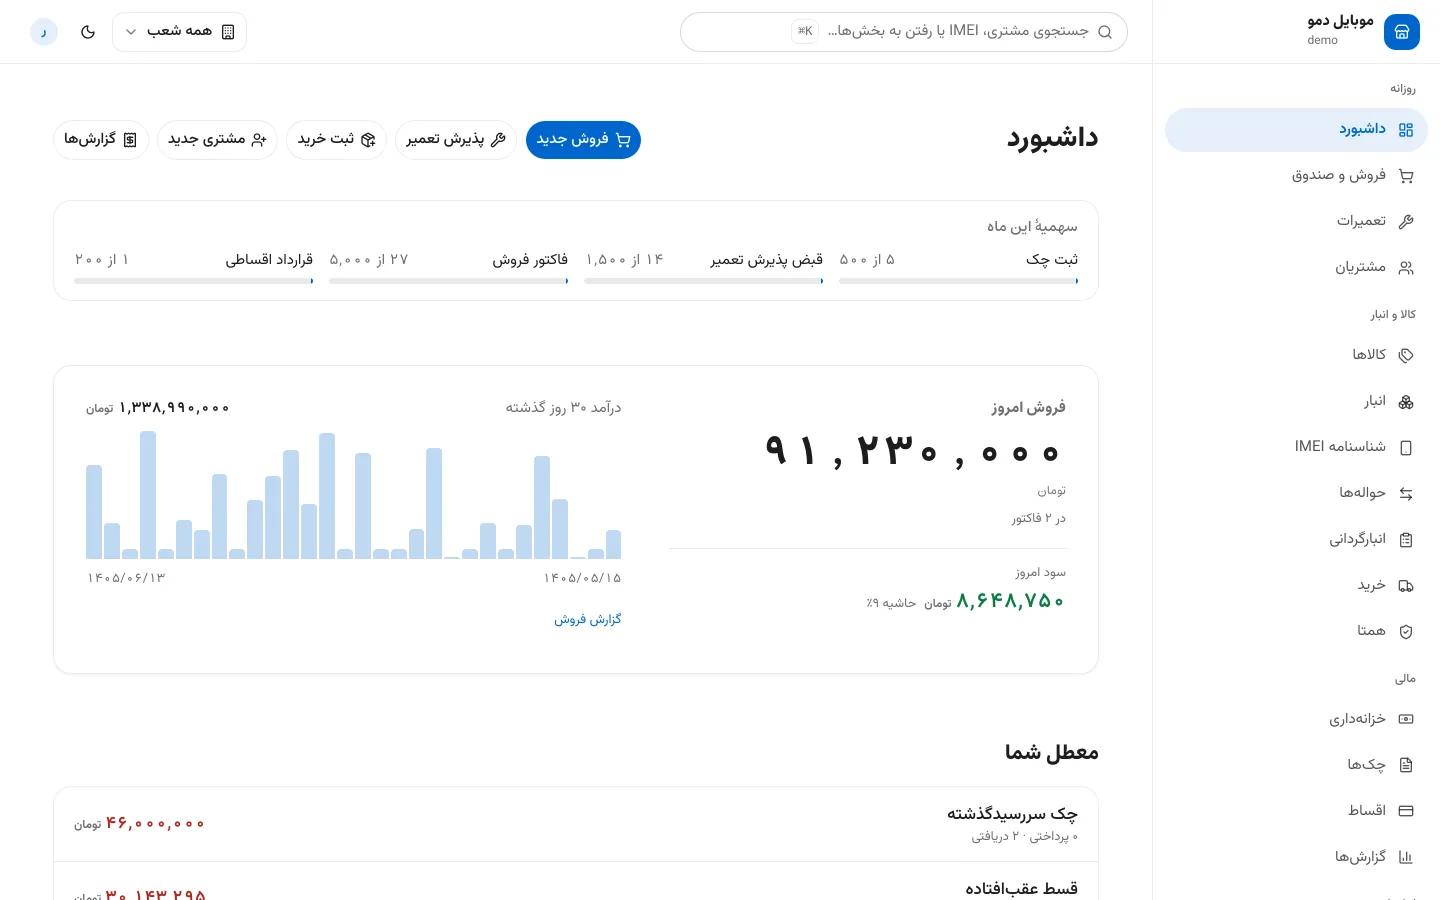
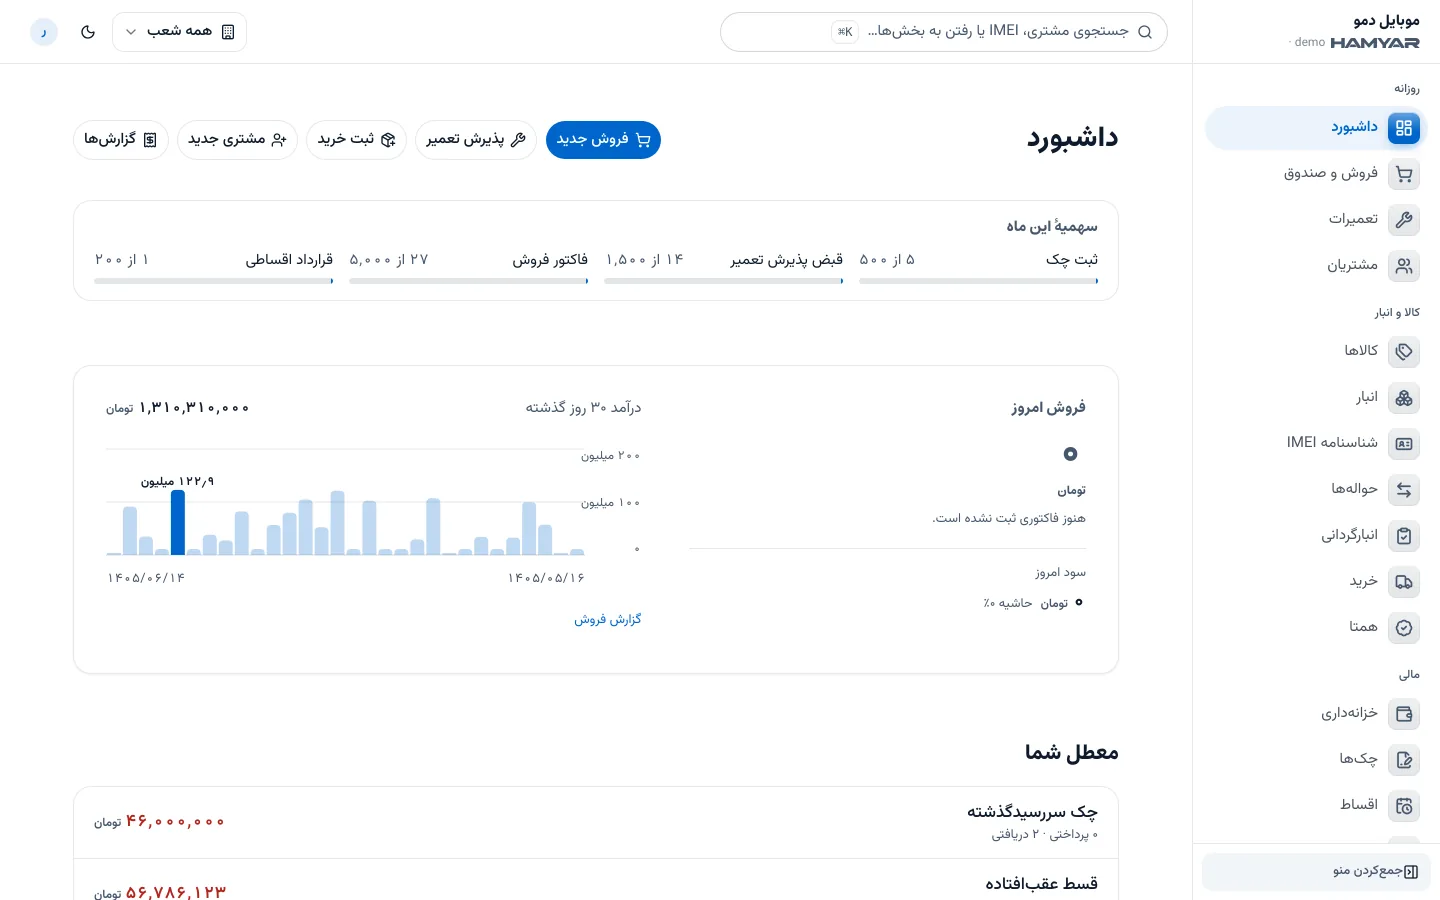
fix(shots): the screenshot pipeline could not sign in, and nothing said so (#162)
Adding the «کد امنیتی» broke `bin/shots` the day it landed. The pipeline drives a real
Chromium at the real sign-in page: it fills the mobile and the password, posts, and the
request now fails validation on a field whose answer is a *picture*. `capture.mjs` sat
waiting to leave `/login` until it timed out. The weekly `shots.yml` run had been
failing the same way, and nobody looked, because a screenshot workflow that fails
quietly looks exactly like a screenshot workflow with nothing to do.

That matters more than a broken script. `LandingShotsTest` enforces the promise that
the captures on the landing are real and current; the pipeline that keeps that promise
had been unable to run since 2026-09-04. The dashboard shot in this commit is the first
one taken since the sidebar got its icon tiles.

The fix is `GET /shots/security-code`, and the shape of it was chosen carefully:

**It returns the caller's OWN session's code and nothing else.** It is not a way in.
The pipeline still posts the real form, through `LoginController::store()`, with the
real mobile and password, and every check in that flow still runs — the credential
lookup, `is_active`, the tenant pin, `isUsable()`, the 2FA branch. What the route
removes is the anti-automation measure, which is precisely and only what a screenshot
robot needs removed.

The obvious alternative — a route calling `Auth::login()` directly — was rejected
because `LoginController::store()` states an invariant in its own comments: nothing
[…]

diff --git a/routes/web.php b/routes/web.php
@@ -10,6 +10,7 @@ use App\Modules\Platform\Http\Controllers\LandingController;
 use App\Modules\Platform\Http\Controllers\OnboardingController;
 use App\Modules\Reporting\Http\Controllers\DashboardController;
 use App\Modules\Reporting\Http\Controllers\SetupChecklistController;
+use Illuminate\Http\Request;
 use Illuminate\Http\Response;
 use Illuminate\Support\Facades\Route;
 use Inertia\Inertia;
@@ -275,4 +276,39 @@ if (app()->environment('local', 'testing')) {
 
         return view("design.landing.{$direction}", ['plans' => App\Modules\Platform\Models\Plan::query()->where('is_public', true)->with('limits')->orderBy('position')->get()]);
     })->name('design.landing');
+
+    /*
+    | How `bin/shots` gets past the «کد امنیتی», and why it is not an auth bypass.
+    |
+    | The screenshot pipeline drives a real Chromium at the real sign-in page. Adding the
+    | security code broke it silently: `capture.mjs` fills the mobile and the password,
+    | posts, and validation fails on a field whose answer is a *picture*. Nothing reported
+    | it — the script just timed out waiting to leave `/login`, and the weekly `shots.yml`
+    | run had been failing the same way. The landing's promise that its captures are real
+    | is enforced by `LandingShotsTest`, and it was being kept by a pipeline that could no
+    | longer run at all.
+    |
+    | **This route hands back the caller's OWN session's code, and nothing else.** It is
+    | not a way in: the pipeline still posts the real form, through the real controller,
+    | with the real mobile and password, and every check in `LoginController::store()`
+    | still runs. What it removes is the anti-automation measure, which is precisely and
+    | only what a screenshot robot needs removed.
+    |
+    | That shape was chosen over the obvious alternative — a route that calls
+    | `Auth::login()` directly — because `LoginController::store()` states an invariant in
+    | its own comments: *nothing outside this flow may ever write `tenant_id` into the
+    | session*. A second door would have had to copy the tenant pinning, the `isUsable()`
+    | check and the 2FA branch, and a copy of an auth flow is a copy that drifts.
+    |
+    | The guard is registration: in production this route does not exist. It needs no
+    | signature on top, because the only thing it discloses is the answer to a picture the
+    | same caller is already being shown.
+    */
+    Route::domain('app.'.config()->string('app.domain'))->group(function (): void {
+        Route::get('/shots/security-code', function (Request $request): Response {
+            $code = $request->session()->get(App\Support\SecurityCode::SESSION_KEY);
+
+            return response(is_string($code) ? $code : '', 200, ['Content-Type' => 'text/plain']);
+        })->name('shots.security-code');
+    });
 }
